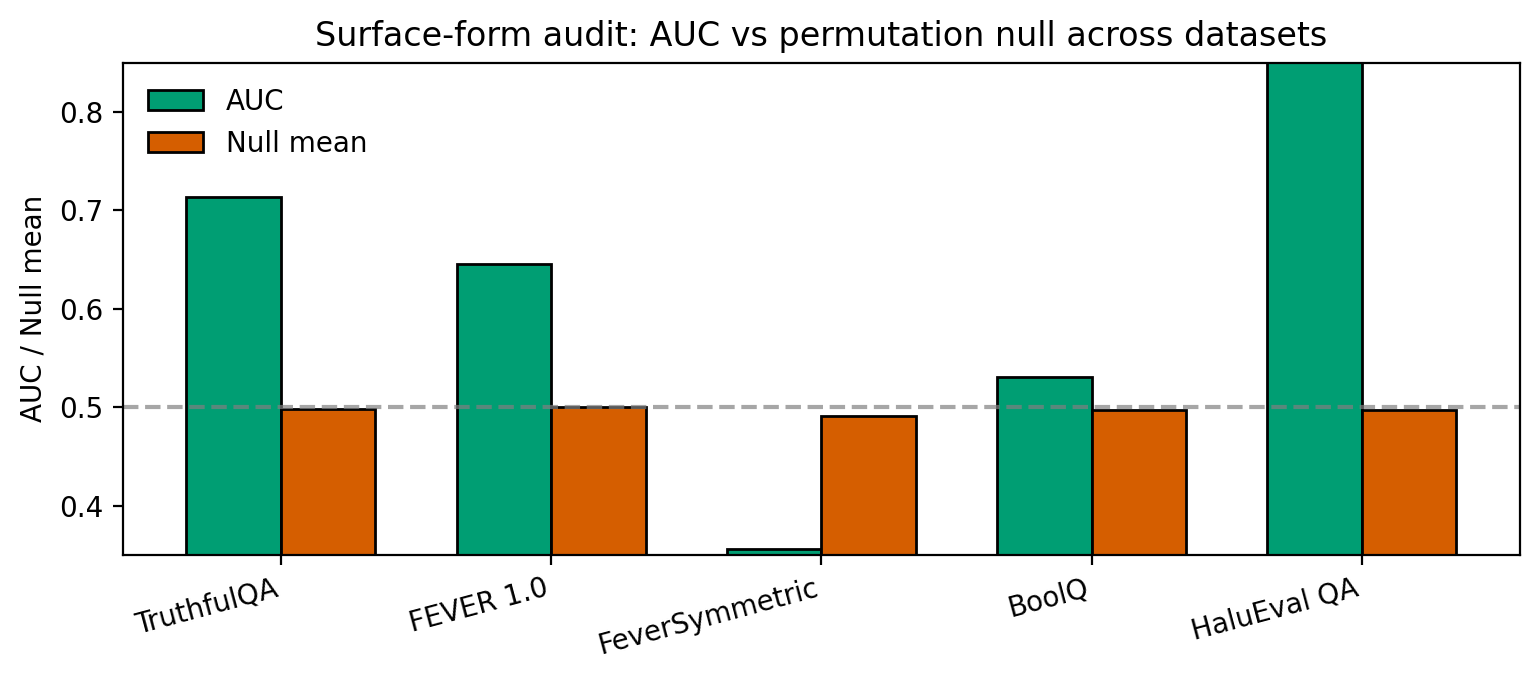
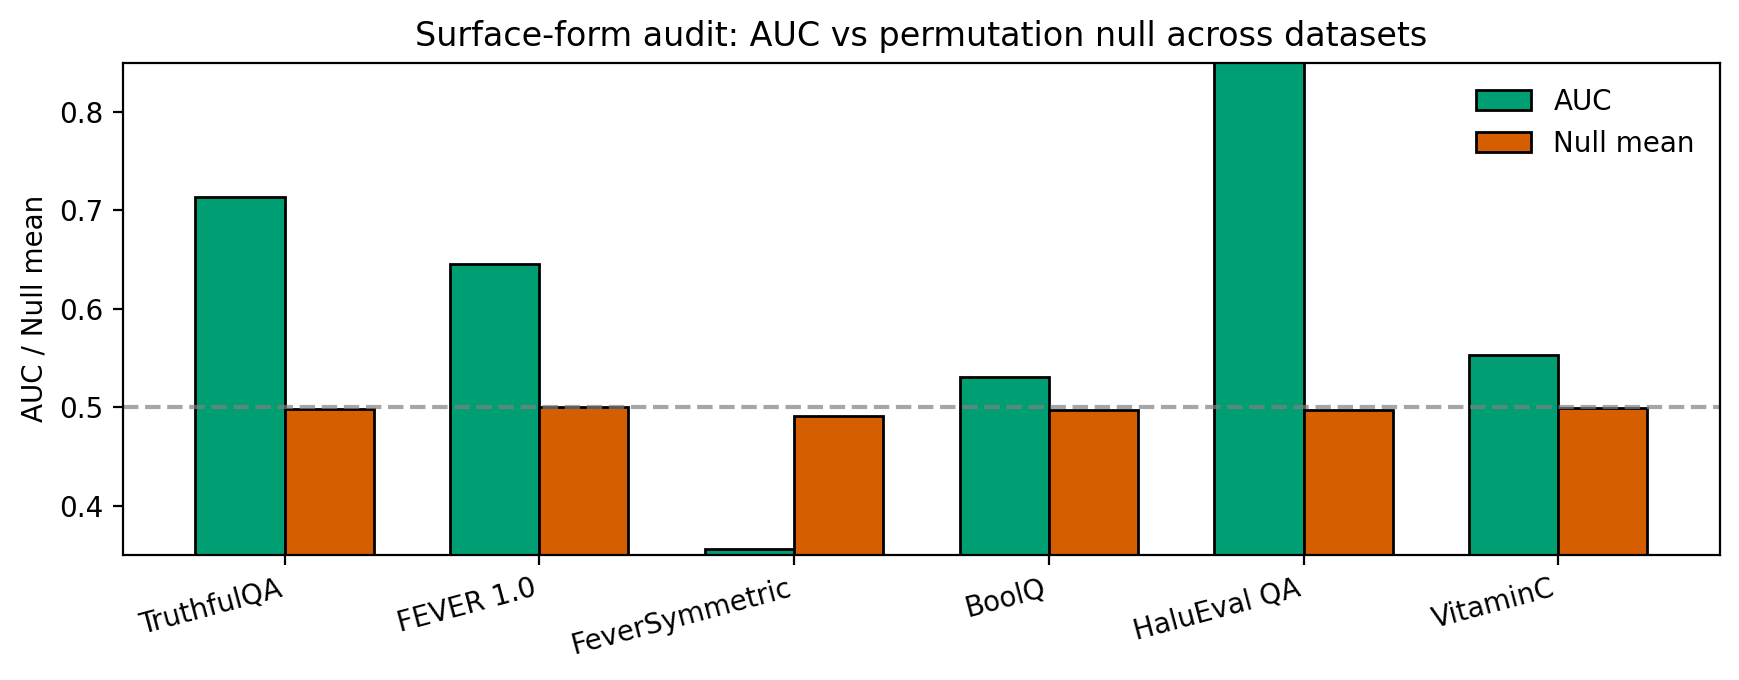
Add VitaminC grouped audit and refresh paper outputs.
Integrate VitaminC into the external surface-form audit with case_id-grouped CV, update documentation, and regenerate cross-dataset tables/figures for paper-ready reporting.

diff --git a/scripts/run_fever_audit.py b/scripts/run_fever_audit.py
@@ -1,10 +1,11 @@
 #!/usr/bin/env python3
 """
-Surface-form confound audit: FEVER 1.0, FeverSymmetric, BoolQ, and HaluEval QA.
+Surface-form confound audit: FEVER 1.0, FeverSymmetric, BoolQ, HaluEval QA,
+and VitaminC.
 
-FEVER and FeverSymmetric metrics are frozen constants; each run recomputes BoolQ
-and HaluEval QA. Outputs: audits/fever_audit_results.csv (4 external rows),
-cross-dataset table, bar figure.
+FEVER and FeverSymmetric metrics are frozen constants; each run recomputes BoolQ,
+HaluEval QA, and VitaminC. Outputs: audits/fever_audit_results.csv (5 external
+rows), cross-dataset table, bar figure.
 
 Methodology matches the TruthfulQA audit: StandardScaler + LogisticRegression,
 5-fold StratifiedKFold OOF AUC, bootstrap CI, permutation null, ablations,
@@ -16,6 +17,7 @@ Usage:
 Optional local data (skips HuggingFace hub):
     python scripts/run_fever_audit.py --boolq-data data/boolq/validation.parquet
     python scripts/run_fever_audit.py --halueval-data data/halueval/qa.parquet
+    python scripts/run_fever_audit.py --vitaminc-data data/vitaminc/validation.parquet
 """
 from __future__ import annotations
 
@@ -150,6 +152,11 @@ FEVERSYMMETRIC_URL = (
 HALUEVAL_HF_ID = "pminervini/HaluEval"
 HALUEVAL_HF_CONFIG = "qa"
 HALUEVAL_HF_SPLIT = "data"
+
+# VitaminC on Hugging Face.
+VITAMINC_HF_ID = "tals/vitaminc"
+VITAMINC_HF_CONFIG = "default"
+VITAMINC_HF_SPLIT = "validation"
 
 
 def repo_root() -> Path:
@@ -606,8 +613,74 @@ def load_halueval(local_path: str | Path | None = None) -> pd.DataFrame:
     return pd.DataFrame(out_rows)
 
 
+def load_vitaminc(local_path: str | Path | None = None) -> pd.DataFrame:
+    """
+    VitaminC validation: claim-only features, SUPPORTS=1 and REFUTES=0.
+
+    Drops NOT ENOUGH INFO to mirror FEVER-style binary setup.
+    Keeps case_id for grouped CV.
+
+    Resolution: --vitaminc-data path → data/vitaminc/validation.{parquet,json,jsonl,csv}
+    → HuggingFace load_dataset(VITAMINC_HF_ID, VITAMINC_HF_CONFIG, split=...).
+    """
+    candidates: list[Path] = []
+    if local_path is not None:
+        p = Path(local_path)
+        if not p.exists():
+            raise FileNotFoundError(f"VitaminC data not found: {p}")
+        candidates.append(p)
+    else:
+        base = repo_root() / "data" / "vitaminc"
+        for name in ("validation.parquet", "validation.json", "validation.jsonl", "validation.csv"):
+            q = base / name
+            if q.exists():
+                candidates.append(q)
+                break
+
+    if candidates:
+        path = candidates[0]
+        suffix = path.suffix.lower()
+        if suffix == ".parquet":
+            raw = pd.read_parquet(path)
+        elif suffix == ".json":
+            raw = pd.read_json(path)
+        elif suffix in (".jsonl", ".ndjson"):
+            raw = pd.read_json(path, lines=True)
+        elif suffix == ".csv":
+            raw = pd.read_csv(path)
+        else:
+            raise ValueError(f"Unsupported VitaminC file type: {path}")
+    else:
+        try:
+            from datasets import load_dataset
+        except ImportError as e:
+            raise RuntimeError(
+                "Install datasets (pip install datasets) or pass --vitaminc-data PATH "
+                "or place validation.parquet/json/jsonl/csv under data/vitaminc/"
+            ) from e
+        ds = load_dataset(VITAMINC_HF_ID, VITAMINC_HF_CONFIG, split=VITAMINC_HF_SPLIT)
+        raw = ds.to_pandas()
+
+    need = {"claim", "label", "case_id"}
+    missing = need - set(raw.columns)
+    if missing:
+        raise ValueError(f"VitaminC table missing columns {missing}; have {list(raw.columns)}")
+
+    label_map = {"SUPPORTS": 1, "REFUTES": 0}
+    keep = raw["label"].astype(str).str.upper().isin(label_map.keys())
+    filtered = raw.loc[keep, ["claim", "label", "case_id"]].copy()
+    filtered["label"] = filtered["label"].astype(str).str.upper().map(label_map).astype(int)
+
+    df = pd.DataFrame({
+        "case_id": filtered["case_id"].astype(str),
+        "claim_text": filtered["claim"].astype(str),
+        "label": filtered["label"],
+    })
+    return df
+
+
 def _csv_metadata_note(results_all: list[dict]) -> str:
-    f1, fs, bq, hv = results_all[0], results_all[1], results_all[2], results_all[3]
+    f1, fs, bq, hv, vc = results_all[0], results_all[1], results_all[2], results_all[3], results_all[4]
     inv_auc = 1 - fs["auc"]
     return (
         "# FEVER 1.0: frozen row from shared_task_dev.jsonl (SUPPORTS+REFUTES, dedup by claim).\n"
@@ -618,6 +691,9 @@ def _csv_metadata_note(results_all: list[dict]) -> str:
         f"# HaluEval QA: {HALUEVAL_HF_ID} config={HALUEVAL_HF_CONFIG} split={HALUEVAL_HF_SPLIT}, "
         f"recomputed each run (N={hv['n']} answer rows). GroupKFold by pair_id; answer text only; "
         "excludes question_neg feature. LLM-generated (ChatGPT): possible style confounds.\n"
+        f"# VitaminC: {VITAMINC_HF_ID} config={VITAMINC_HF_CONFIG} split={VITAMINC_HF_SPLIT}, "
+        f"recomputed each run (N={vc['n']} claims). Claim-only; SUPPORTS/REFUTES only (NEI dropped); "
+        "GroupKFold by case_id.\n"
     )
 
 
@@ -704,11 +780,11 @@ def write_cross_dataset_tex(path: Path, results_all: list[dict]) -> None:
 
 
 def plot_auc_comparison(fig_dir: Path, results_all: list[dict]) -> None:
-    datasets = ["TruthfulQA", "FEVER 1.0", "FeverSymmetric", "BoolQ", "HaluEval QA"]
+    datasets = ["TruthfulQA", "FEVER 1.0", "FeverSymmetric", "BoolQ", "HaluEval QA", "VitaminC"]
     aucs = [TRUTHFULQA_AUC] + [r["auc"] for r in results_all]
     nulls = [TRUTHFULQA_NULL] + [r["null_mean"] for r in results_all]
 
-    fig, ax = plt.subplots(figsize=(7.8, 3.5))
+    fig, ax = plt.subplots(figsize=(8.8, 3.5))
     x = np.arange(len(datasets))
     w = 0.35
     ax.bar(x - w / 2, aucs, w, label="AUC", color="#009E73", edgecolor="black")
@@ -727,7 +803,7 @@ def plot_auc_comparison(fig_dir: Path, results_all: list[dict]) -> None:
 
 
 def print_deliverables(results_all: list[dict]) -> None:
-    f1, fs, bq, hv = results_all[0], results_all[1], results_all[2], results_all[3]
+    f1, fs, bq, hv, vc = results_all[0], results_all[1], results_all[2], results_all[3], results_all[4]
     print("\n" + "=" * 60)
     print("DELIVERABLES")
     print("=" * 60)
@@ -737,6 +813,10 @@ def print_deliverables(results_all: list[dict]) -> None:
     print(
         f"HaluEval QA (live, GroupKFold) OOF AUC: {hv['auc']:.3f}, "
         f"null mean: {hv['null_mean']:.3f}"
+    )
+    print(
+        f"VitaminC validation (live) OOF AUC: {vc['auc']:.3f}, "
+        f"null mean: {vc['null_mean']:.3f}"
     )
     if bq["auc"] < 0.55:
         print(
@@ -752,9 +832,11 @@ def print_deliverables(results_all: list[dict]) -> None:
     print(f"Dominant feature (frozen FEVER ablation): {f1['dominant_feature']}")
     print(f"Dominant feature (BoolQ ablation): {bq['dominant_feature']}")
     print(f"Dominant feature (HaluEval ablation): {hv['dominant_feature']}")
+    print(f"Dominant feature (VitaminC ablation): {vc['dominant_feature']}")
     print(f"FEVER confound rate (frozen): {f1['confound_pct']:.1f}%")
     print(f"BoolQ confound rate: {bq['confound_pct']:.1f}%")
     print(f"HaluEval confound rate: {hv['confound_pct']:.1f}%")
+    print(f"VitaminC confound rate: {vc['confound_pct']:.1f}%")
     vs_tqa = (
         "stronger" if f1["auc"] > TRUTHFULQA_AUC
         else "weaker" if f1["auc"] < TRUTHFULQA_AUC
@@ -775,7 +857,7 @@ def parse_args(argv: list[str] | None = None) -> argparse.Namespace:
     p = argparse.ArgumentParser(
         description=(
             "External surface-form audit: frozen FEVER + FeverSymmetric; "
-            "live BoolQ + HaluEval QA (HF datasets)."
+            "live BoolQ + HaluEval QA + VitaminC (HF datasets)."
         ),
         formatter_class=argparse.RawDescriptionHelpFormatter,
         epilog=f"""
@@ -787,6 +869,8 @@ Examples:
 FEVER / FeverSymmetric: frozen in-script. BoolQ: google/boolq validation (question-only).
 HaluEval: {HALUEVAL_HF_ID} config={HALUEVAL_HF_CONFIG} split={HALUEVAL_HF_SPLIT}
 (answer-only, GroupKFold by pair_id). Local: data/halueval/qa.{{parquet,json,jsonl,csv}}
+VitaminC: {VITAMINC_HF_ID} config={VITAMINC_HF_CONFIG} split={VITAMINC_HF_SPLIT}
+(claim-only; SUPPORTS/REFUTES). Local: data/vitaminc/validation.{{parquet,json,jsonl,csv}}
         """.strip(),
     )
     p.add_argument(
@@ -806,6 +890,12 @@ HaluEval: {HALUEVAL_HF_ID} config={HALUEVAL_HF_CONFIG} split={HALUEVAL_HF_SPLIT}
         type=str,
         default=None,
         help="Path to HaluEval QA table with columns right_answer, hallucinated_answer",
+    )
+    p.add_argument(
+        "--vitaminc-data",
+        type=str,
+        default=None,
+        help="Path to VitaminC table with columns claim, label",
     )
     p.add_argument(
         "--fever_dev",
@@ -836,7 +926,7 @@ HaluEval: {HALUEVAL_HF_ID} config={HALUEVAL_HF_CONFIG} split={HALUEVAL_HF_SPLIT}
 
 
 def main(argv: list[str] | None = None) -> int:
-    """Run external surface-form audit (frozen FEVER/Symmetric + live BoolQ + HaluEval QA)."""
+    """Run external surface-form audit (frozen FEVER/Symmetric + live BoolQ/HaluEval/VitaminC)."""
     args = parse_args(argv)
     if args.fever_dev is not None or args.fever_symmetric is not None:
         print(
@@ -943,6 +1033,45 @@ def main(argv: list[str] | None = None) -> int:
         "confound_pct": confound_pct_hv,
     })
 
+    print(f"\n{'=' * 60}\nVitaminC validation (live, GroupKFold by case_id)\n{'=' * 60}")
+    df_vc = load_vitaminc(args.vitaminc_data)
+    claims_vc = df_vc["claim_text"]
+    y_vc = df_vc["label"].values
+    groups_vc = df_vc["case_id"].values
+    n_vc = len(df_vc)
+    print(
+        f"Loaded {n_vc} claims ({len(np.unique(groups_vc))} case_id groups), "
+        f"{int(y_vc.sum())} supports, {int((1 - y_vc).sum())} refutes"
+    )
+
+    feat_vc = compute_features(claims_vc)
+    X_vc = feat_vc[FEAT_COLS].fillna(0).to_numpy()
+
+    auc_v, ci_lo_v, ci_hi_v, null_v, p_v, _ = run_audit(
+        X_vc, y_vc, seed, n_null, n_boot, groups=groups_vc
+    )
+    print(f"OOF AUC: {auc_v:.3f} [95% CI: {ci_lo_v:.3f}, {ci_hi_v:.3f}]")
+    print(f"Null mean: {null_v:.3f}, p-value: {p_v:.4f}")
+
+    ablations_vc = run_ablation(feat_vc, y_vc, FEAT_COLS, seed, n_null, groups=groups_vc)
+    dominant_vc = dominant_ablation_group(ablations_vc)
+
+    conf_vc = heuristic_confound(feat_vc, for_boolq=False)
+    confound_pct_vc = 100 * conf_vc.mean()
+    print(f"Confound rate: {confound_pct_vc:.1f}%")
+
+    results_all.append({
+        "dataset": "VitaminC validation",
+        "n": n_vc,
+        "auc": auc_v,
+        "ci_lo": ci_lo_v,
+        "ci_hi": ci_hi_v,
+        "null_mean": null_v,
+        "p_value": p_v,
+        "dominant_feature": dominant_vc,
+        "confound_pct": confound_pct_vc,
+    })
+
     csv_path = audits_dir / "fever_audit_results.csv"
     save_audit_csv(csv_path, results_all)
     print(f"\nSaved {csv_path}")
@@ -971,6 +1100,21 @@ def main(argv: list[str] | None = None) -> int:
         label="tab:halueval_ablation",
     )
     print(f"Saved {halueval_ab_path}")
+
+    ablation_rows_vc = [
+        [name, f"{a:.3f}", f"{nm:.3f}"] for name, a, nm in ablations_vc
+    ]
+    vitaminc_ab_path = tbl_dir / "vitaminc_feature_ablation_table.tex"
+    write_fever_ablation_tex(
+        vitaminc_ab_path,
+        ablation_rows_vc,
+        caption=(
+            "VitaminC validation feature-group ablation (5-fold GroupKFold by case_id, "
+            "100 permutation nulls; claim-only, SUPPORTS/REFUTES only)."
+        ),
+        label="tab:vitaminc_ablation",
+    )
+    print(f"Saved {vitaminc_ab_path}")
 
     cross_path = tbl_dir / "cross_dataset_comparison_table.tex"
     write_cross_dataset_tex(cross_path, results_all)

diff --git a/paper_assets/tables/cross_dataset_comparison_table.tex b/paper_assets/tables/cross_dataset_comparison_table.tex
@@ -6,11 +6,12 @@
 \toprule
 Dataset & N & AUC & Null mean & p & Dominant feature & Confound \% \\
 \midrule
-TruthfulQA & 790 & 0.713 & 0.498 & <0.001 & Negation & 67.5\% \\
-FEVER 1.0 & 13089 & 0.645 & 0.500 & <0.001 & Negation & 52.9\% \\
+TruthfulQA & 790 & 0.713 & 0.498 & $<$0.001 & Negation & 67.5\% \\
+FEVER 1.0 & 13089 & 0.645 & 0.500 & $<$0.001 & Negation & 52.9\% \\
 FeverSymmetric & 708 & 0.356 & 0.491 & 1.000 & Negation & N/A \\
-BoolQ validation & 3270 & 0.531 & 0.497 & <0.001 & None identified & $<$1\% \\
-HaluEval QA & 20000 & 0.974 & 0.497 & <0.001 & Length & 58.3\% \\
+BoolQ validation & 3270 & 0.531 & 0.497 & $<$0.001 & None identified & $<$1\% \\
+HaluEval QA & 20000 & 0.974 & 0.497 & $<$0.001 & Length & 58.3\% \\
+VitaminC validation & 54012 & 0.553 & 0.499 & $<$0.001 & Length & 49.5\% \\
 \bottomrule
 \end{tabular}
 \end{table}

diff --git a/paper_assets/tables/vitaminc_feature_ablation_table.tex b/paper_assets/tables/vitaminc_feature_ablation_table.tex
@@ -1,0 +1,17 @@
+\begin{table}[t]
+\centering
+\caption{VitaminC validation feature-group ablation (5-fold GroupKFold by case_id, 100 permutation nulls; claim-only, SUPPORTS/REFUTES only).}
+\label{tab:vitaminc_ablation}
+\begin{tabular}{lrr}
+\toprule
+Features removed & AUC & Null mean \\
+\midrule
+None (full model) & 0.553 & 0.499 \\
+No negation & 0.553 & 0.498 \\
+No length & 0.528 & 0.498 \\
+No hedging & 0.553 & 0.499 \\
+No authority & 0.553 & 0.499 \\
+No specificity/mutation & 0.552 & 0.499 \\
+\bottomrule
+\end{tabular}
+\end{table}

diff --git a/README.md b/README.md
@@ -39,12 +39,13 @@ python scripts/build_audit_notebook.py
 python scripts/make_paper_assets.py --root .
 ```
 
-## External surface-form audit (FEVER, FeverSymmetric, BoolQ, HaluEval QA)
+## External surface-form audit (FEVER, FeverSymmetric, BoolQ, HaluEval QA, VitaminC)
 
-Runs the same **text-only** confound methodology (logistic regression, permutation null) on four external sets. **FEVER 1.0** and **FeverSymmetric** are **frozen constants** in `scripts/run_fever_audit.py`. Each run recomputes **BoolQ** (`google/boolq`, validation) and **HaluEval QA** (`pminervini/HaluEval`, config `qa`, split `data`) via HuggingFace `datasets` or local exports. No model inference.
+Runs the same **text-only** confound methodology (logistic regression, permutation null) on five external sets. **FEVER 1.0** and **FeverSymmetric** are **frozen constants** in `scripts/run_fever_audit.py`. Each run recomputes **BoolQ** (`google/boolq`, validation), **HaluEval QA** (`pminervini/HaluEval`, config `qa`, split `data`), and **VitaminC** (`tals/vitaminc`, config `default`, split `validation`) via HuggingFace `datasets` or local exports. No model inference.
 
 - **BoolQ:** question-only features; StratifiedKFold.
 - **HaluEval QA:** **answer-only** (`right_answer` vs `hallucinated_answer`), two rows per pair; **GroupKFold** by `pair_id` (both answers stay in the same fold). Features omit `question_neg`. Data is LLM-generated (ChatGPT-style); interpret surface-form signals as possibly confounded with generation style.
+- **VitaminC:** claim-only features; keeps `SUPPORTS`/`REFUTES` and drops `NOT ENOUGH INFO`; StratifiedKFold.
 
 ```bash
 pip install datasets   # if not already (see requirements.txt)
@@ -55,9 +56,11 @@ python scripts/run_fever_audit.py
 
 **Local HaluEval** (`right_answer`, `hallucinated_answer`): `--halueval-data PATH` or `data/halueval/qa.{parquet,json,jsonl,csv}`.
 
-**Outputs:** `audits/fever_audit_results.csv` (four external rows), `cross_dataset_comparison_table.tex`, `boolq_feature_ablation_table.tex`, `halueval_feature_ablation_table.tex`, `fever_audit_auc_comparison.pdf`.
+**Local VitaminC** (`claim`, `label`): `--vitaminc-data PATH` or `data/vitaminc/validation.{parquet,json,jsonl,csv}`.
 
-**Options:** `python scripts/run_fever_audit.py --help` (`--seed`, `--n-null`, `--n-boot`, `--boolq-data`, `--halueval-data`).
+**Outputs:** `audits/fever_audit_results.csv` (five external rows), `cross_dataset_comparison_table.tex`, `boolq_feature_ablation_table.tex`, `halueval_feature_ablation_table.tex`, `vitaminc_feature_ablation_table.tex`, `fever_audit_auc_comparison.pdf`.
+
+**Options:** `python scripts/run_fever_audit.py --help` (`--seed`, `--n-null`, `--n-boot`, `--boolq-data`, `--halueval-data`, `--vitaminc-data`).
 
 BoolQ adds feature `question_neg` (mid-question contractions) and omits length-tail confound flags (BoolQ lengths cluster; tails are degenerate).
 
